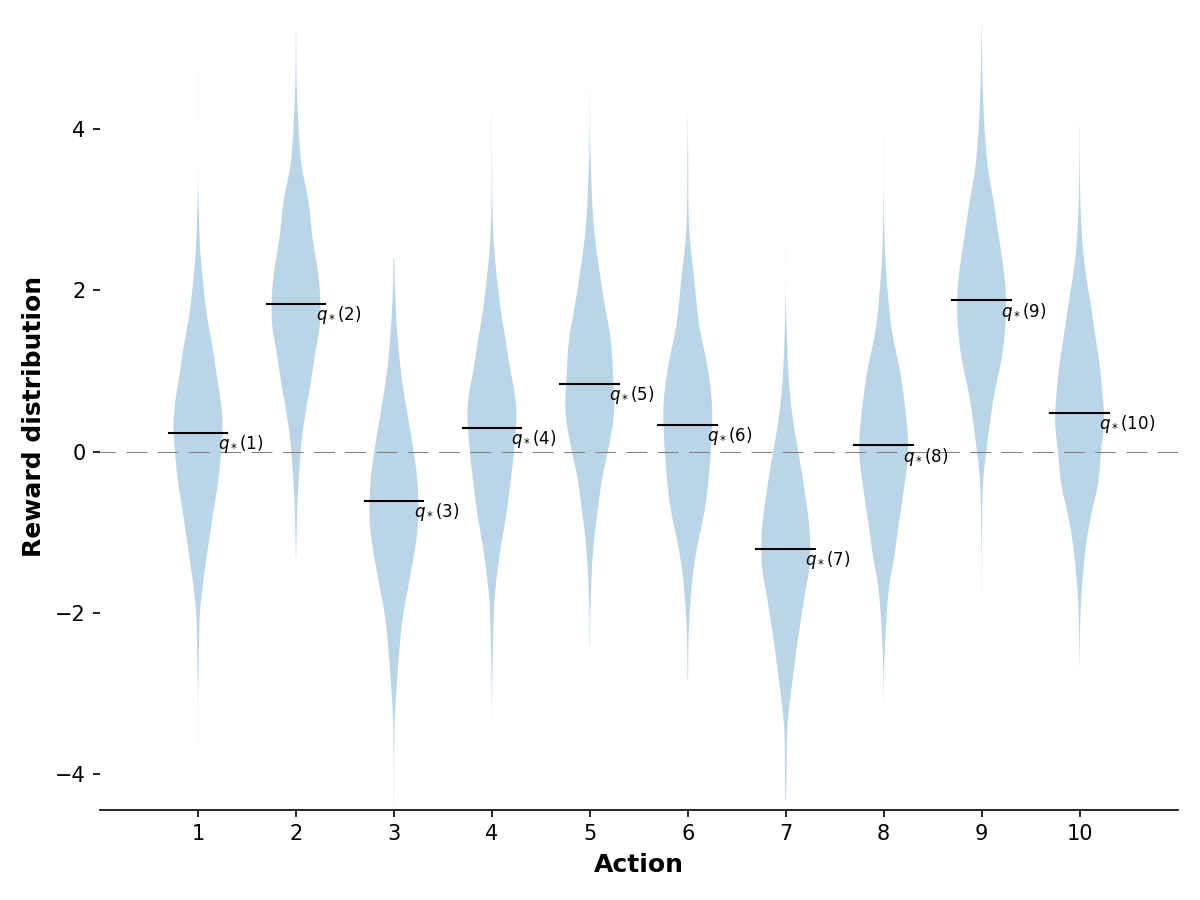
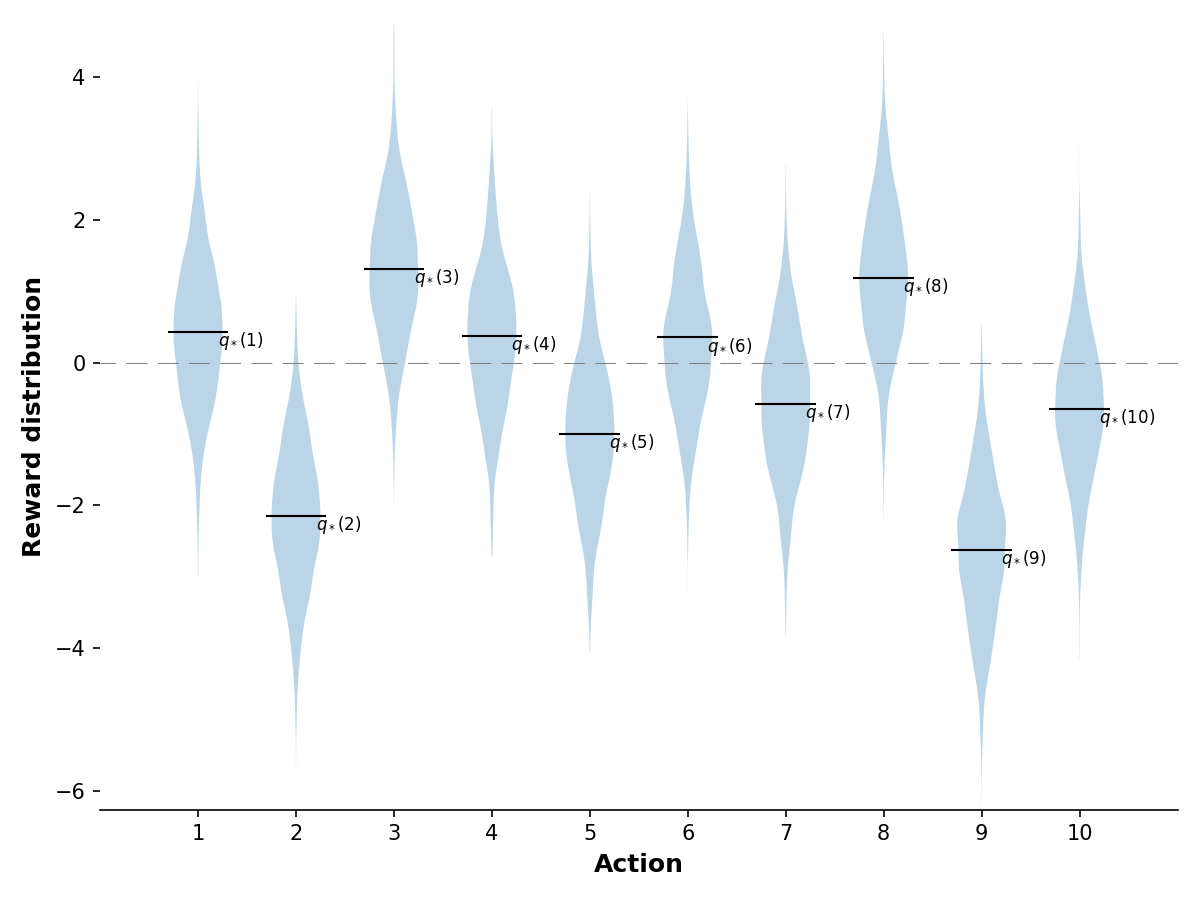
example 2.2 added

Changed region(s): [[0.1233, 0.1244, 0.9558, 0.8089], [0.8942, 0.28, 0.925, 0.3111], [0.0617, 0.84, 0.0925, 0.8711]]

diff --git a/chapter_2_k_armed_bandits/example_2_2_bandits_algo.py b/chapter_2_k_armed_bandits/example_2_2_bandits_algo.py
@@ -1,0 +1,83 @@
+import numpy as np
+import matplotlib.pyplot as plt
+
+SEED = 200
+np.random.seed(200)
+
+# Get the action with the max Q value
+def get_argmax(G:np.array) -> int:
+    candidates = np.argwhere(G == G.max()).flatten()
+    # return the only index if there's only one max
+    if len(candidates) == 1:
+        return candidates[0]
+    else:
+        # instead break the tie randomly
+        return np.random.choice(candidates)
+
+
+# select arm and get the reward
+def bandit(q_star, act):
+    real_rewards = np.random.normal(q_star, 1.0)
+    optim_choice = int(act == np.argmax(real_rewards))
+    return real_rewards[act], optim_choice
+
+
+# running the k-armed bandit algorithm
+def run_bandit(K:int, 
+            q_star:np.array,
+            rewards:np.array,
+            optim_acts_ratio: np.array,
+            epsilon: float, 
+            num_steps:int=1000, 
+            curr_round:int=0) -> None:
+    
+    Q = np.zeros(K) # The average action-value for each actions
+    N = np.zeros(K) # The number of times each action been selected    
+    optim_acts = 0
+
+    for i in range(num_steps):
+        # print(q_star)
+        # get action
+        A = None
+        if np.random.random() > epsilon:
+            A = get_argmax(Q)
+        else:
+            A = np.random.randint(0, K)
+        
+        R, is_optim = bandit(q_star, A)
+        N[A] += 1
+        Q[A] += (R - Q[A]) / N[A]
+
+        optim_acts += is_optim
+        rewards[curr_round, i] = R
+        optim_acts_ratio[curr_round, i] = optim_acts / (i + 1)
+
+
+
+if __name__ == "__main__":
+
+    # Initializing the hyper-parameters
+    K = 10 # Number of arms
+    epsilon = 0.0
+    num_steps = 1000
+    total_rounds = 1000
+
+    # Initialize the environment
+    q_star = np.random.normal(loc=0, scale=1.0, size=K)
+    rewards = np.zeros(shape=(total_rounds, num_steps))
+    optim_acts_ratio = np.zeros(shape=(total_rounds, num_steps))
+    
+    # print(np.random.random() > 0.5)
+    # print(np.random.choice(np.arange(10)))
+    for curr_round in range(total_rounds):
+        # rewards = np.zeros(shape=(total_rounds, num_steps))
+        run_bandit(K, q_star, rewards, optim_acts_ratio, epsilon, num_steps, curr_round)
+    
+    rewards = rewards.mean(axis=0)
+    optim_acts_ratio = optim_acts_ratio.mean(axis=0)
+    
+    plt.plot(optim_acts_ratio)
+    plt.show()
+
+    plt.plot(rewards)
+    plt.show()

diff --git a/chapter_2_k_armed_bandits/example_2_1_distribution.py b/chapter_2_k_armed_bandits/example_2_1_distribution.py
@@ -8,7 +8,7 @@ if __name__ == "__main__":
     means = np.random.normal(size=(10, ))
 
     # Generate sample data based on normal distribution
-    data = [np.random.normal(mean, 1, 2000) for mean in means]
+    data = [np.random.normal(mean, 1.0, 2000) for mean in means]
 
     # Create violin plot
     plt.figure(figsize=(8, 6), dpi=150)
